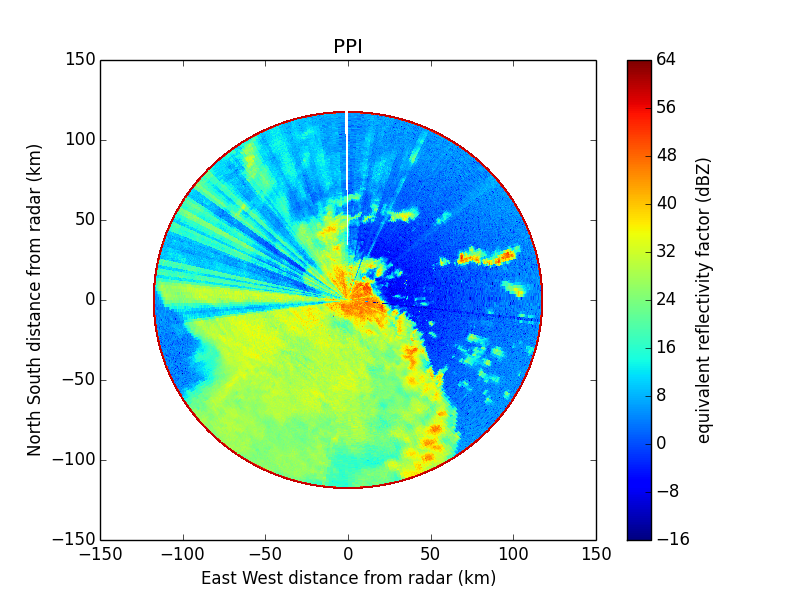
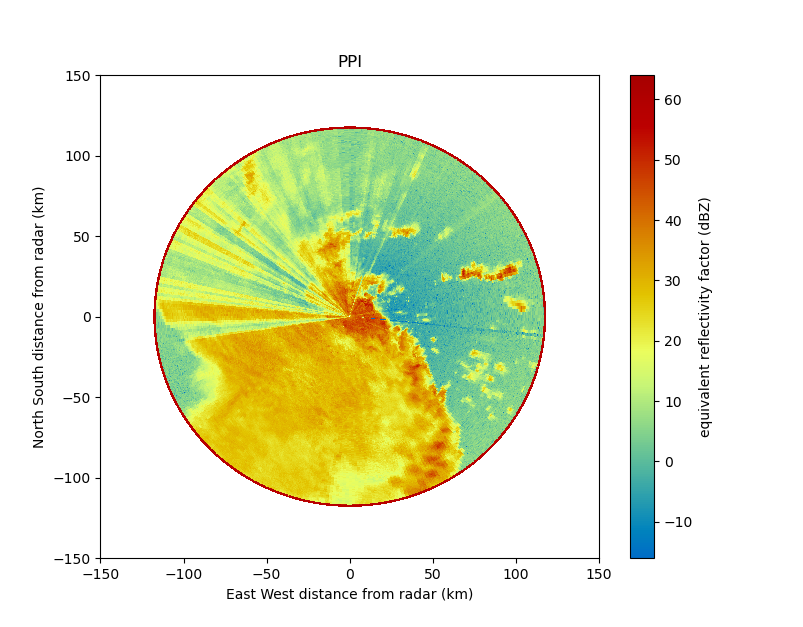
ENH: PyART doc static image color schemes changed to colorblind friendly PyART scheme. plot_ppi_mdv.py modified for this change. plot_rhi_cfradial_singlescan.py created to create one rhi cfradial plot for the docs.

diff --git a/examples/plotting/plot_rhi_cfradial_singlescan.py b/examples/plotting/plot_rhi_cfradial_singlescan.py
@@ -1,0 +1,41 @@
+"""
+======================================================
+Create a multiple panel RHI plot from a CF/Radial file
+======================================================
+
+An example which creates a RHI plot of a CF/Radial file using
+a RadarDisplay object.
+
+"""
+print(__doc__)
+
+import matplotlib.pyplot as plt
+import netCDF4
+import pyart
+from pyart.testing import get_test_data
+
+filename = get_test_data('sgpxsaprrhicmacI5.c0.20110524.015604_NC4.nc')
+
+# create the plot using RadarDisplay
+radar = pyart.io.read_cfradial(filename)
+radar.metadata['instrument_name'] = 'XSARP'
+display = pyart.graph.RadarDisplay(radar)
+
+fig = plt.figure(figsize=[15,5])
+fig.subplots_adjust(hspace=0.4)
+xlabel = 'Distance from radar (km)'
+ylabel = 'Distance above radar (km)'
+colorbar_label = 'Equivalent reflectivity factor (dBZ)'
+#nplots = radar.nsweeps
+
+fixed_angle = radar.fixed_angle['data'][0]
+title = 'HSRHI Az=%.3f' % (fixed_angle)
+ax = fig.add_subplot(1, 1, 1)
+display.plot('reflectivity_horizontal', 0, vmin=-20, vmax=20,
+              mask_outside=True, title="RHI",
+              axislabels=(xlabel, ylabel),
+              cmap='pyart_HomeyerRainbow',
+              colorbar_label=colorbar_label, ax=ax)
+display.set_limits(ylim=[0, 15], ax=ax)
+
+plt.show()

diff --git a/examples/plotting/plot_ppi_mdv.py b/examples/plotting/plot_ppi_mdv.py
@@ -21,11 +21,8 @@ filename = get_test_data('110635.mdv')
 radar = pyart.io.read_mdv(filename)
 display = pyart.graph.RadarDisplay(radar)
 fig = plt.figure(figsize=[5, 5])
-ax = fig.add_subplot(111, frameon=False)
-display.plot('reflectivity', 0, vmin=-16., vmax=64,
-             mask_tuple=['normalized_coherent_power', 0.5],
-             colorbar_flag=False, title_flag=False,
-             axislabels_flag=False)
-display.set_limits(ylim=[-120, 120], xlim=[-120, 120])
-fig.subplots_adjust(left=0, bottom=0, right=1, top=1, wspace=0, hspace=0)
+ax = fig.add_subplot(111)
+display.plot('reflectivity', 0, vmin=-16., vmax=64, title="PPI",
+              cmap='pyart_HomeyerRainbow')
+display.set_limits(ylim=[-150, 150], xlim=[-150, 150])
 plt.show()
